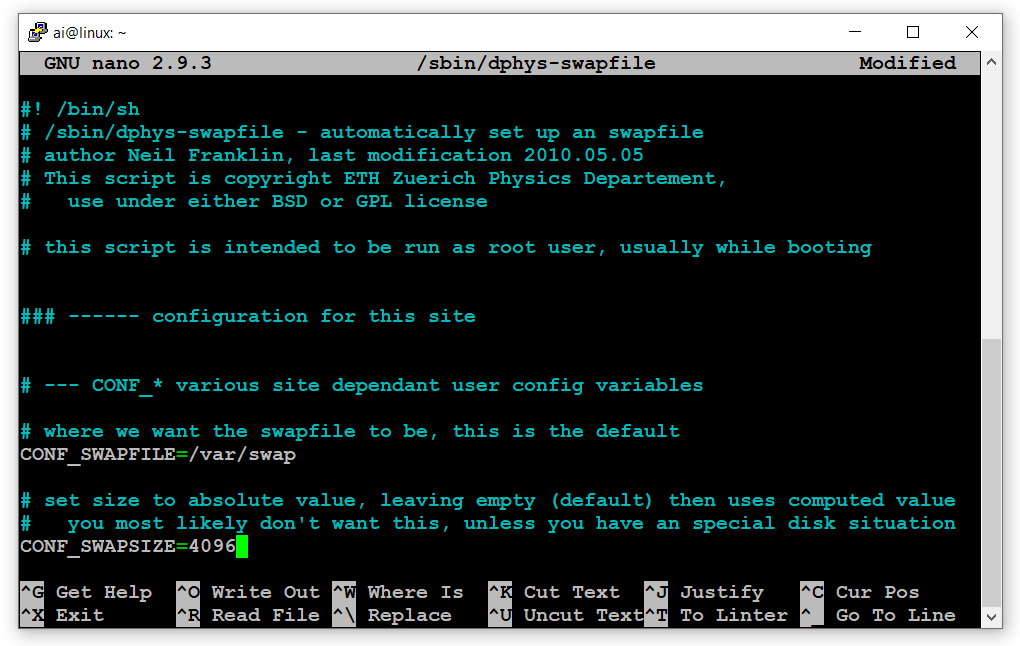
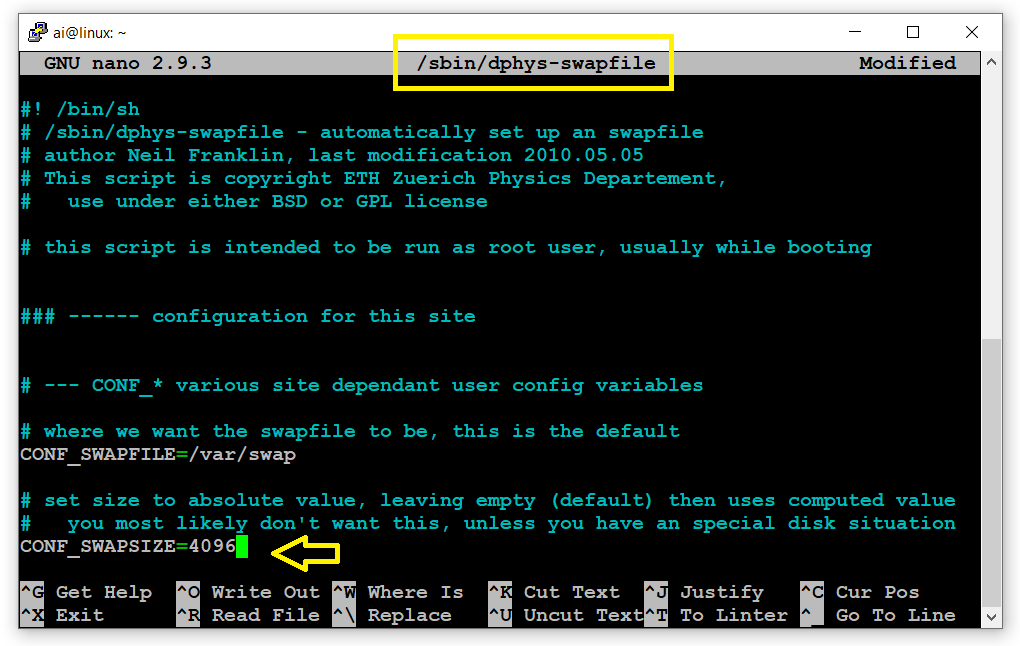
update-readme

Changed region(s): [[0.3647, 0.031, 0.6686, 0.1548], [0.2735, 0.8359, 0.3343, 0.8978]]

diff --git a/Enlarge-Swap/README.md b/Enlarge-Swap/README.md
@@ -53,13 +53,52 @@ In this Tutorial we will see how to enlarge size of swap memory of Jetson Nano
   
 </br>
 
-4. Install dphys-swapfile package 
+5. Install dphys-swapfile package 
   ```
   sudo apt-get install dphys-swapfile
   
   ```
   
 <img src="/Enlarge-Swap/screenshots/swap8.png" width="450" height="350"> 
+
+</br>
+
+<img src="/Enlarge-Swap/screenshots/swap9.png" width="450" height="350"> 
+
+</br>
+
+6. Edit the file to enlarge the boundary 
+  ```
+  sudo nano /sbin/dphys-swapfile
+  
+  ```
+  
+<img src="/Enlarge-Swap/screenshots/swap10.png" width="450" height="350"> 
   
 </br>
 
+<img src="/Enlarge-Swap/screenshots/swap11.png" width="450" height="350"> 
+  
+</br>
+
+<img src="/Enlarge-Swap/screenshots/swap12.png" width="450" height="350"> 
+  
+</br>
+
+7. Edit another file -  give the required memory size
+  ```
+  sudo nano /etc/dphys-swapfile
+  
+  ```
+  
+<img src="/Enlarge-Swap/screenshots/swap13.png" width="450" height="350"> 
+  
+</br>
+
+<img src="/Enlarge-Swap/screenshots/swap14.png" width="450" height="350"> 
+  
+</br>
+
+<img src="/Enlarge-Swap/screenshots/swap15.png" width="450" height="350"> 
+  
+</br>
